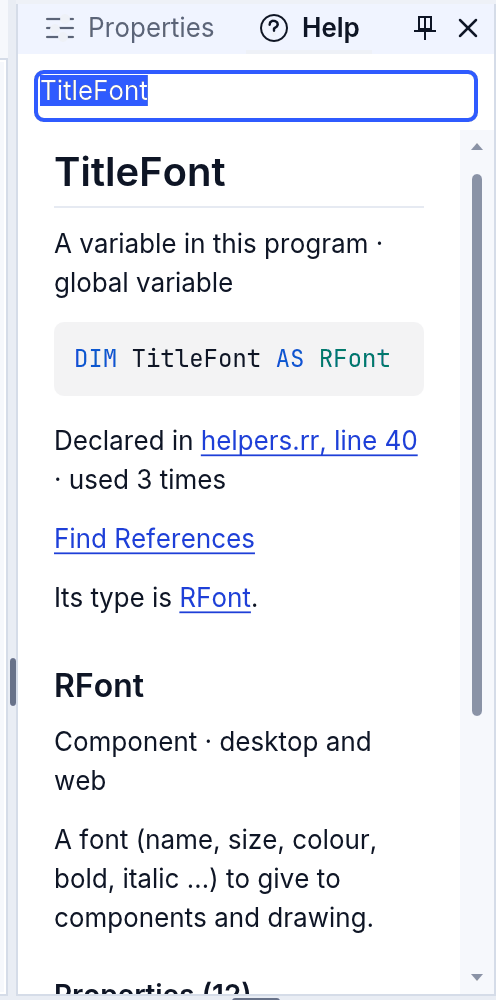
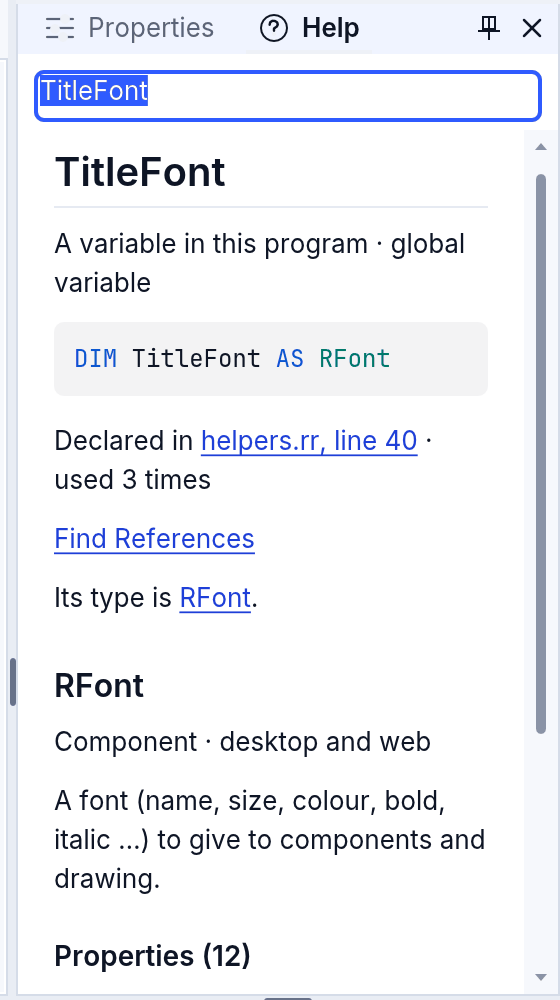
Manual: the inspector's headings and the classic-compatible mark, with pictures (INSPECTOR-CATEGORIES 5/6)
The Designing forms page (English and Spanish, the Spanish one stamped again)
says what each heading is for, where Accessibility fits, that a name the column
cuts short shows whole in a tooltip and the divider is remembered, and what the
small "new" means in a project kept classic-compatible. New pictures
(tools/manual/scenes/inspector.mjs): a form's Layout and Window; a button in a
classic-compatible project in light, dark and high contrast. The pictures that
show the Properties column (designer 01, 02, 04, data/studio-designer, the four
Help ones, whose crop follows the pane's new width) made again. The design guide
names the small note chip; the Spanish glossary the new words.

diff --git a/docs/manual/es/designing-forms.md b/docs/manual/es/designing-forms.md
@@ -1,4 +1,4 @@
-<!-- translated-from: designing-forms.md 787571a21d444a3a -->
+<!-- translated-from: designing-forms.md e7bce699475ac361 -->
 # Diseñar formularios en RapidR Studio
 
 El diseñador de formularios de RapidR Studio te permite construir las ventanas
@@ -241,6 +241,31 @@ seleccionado (o en el propio formulario cuando no hay nada seleccionado), por
 categoría o de la A a la Z, con un cuadro de búsqueda; el cuadro que está debajo
 dice qué hace la propiedad seleccionada. Los valores en gris son los
 predeterminados: no se escriben en el código.
+
+Cada propiedad está bajo el encabezado de **para qué sirve**, los mismos
+encabezados para todos los componentes: **Apariencia** (cómo se ve),
+**Comportamiento** (cómo actúa), **Disposición** (dónde está y de qué tamaño:
+Left, Top, Width, Anchors, los tamaños mínimo y máximo), **Fuente** (FontName,
+FontSize, FontColor), **Ayuda** (la sugerencia), **Dibujo**, **Datos**,
+**Ventana**, **Multimedia** y **Red**, y **Accesibilidad**, que reúne lo que se
+le dice a un lector de pantalla: AccessibleName, AccessibleDescription y
+AccessibleHidden. Busca una propiedad por lo que quieres cambiar, no por de
+dónde viene.
+
+![El panel Propiedades en un formulario: Disposición y Ventana, cada encabezado con las propiedades de su propósito](../images/inspector/categories-light.png)
+
+Un nombre que la columna deja cortado se muestra completo en una sugerencia. La
+línea entre los nombres y los valores se arrastra, y Studio recuerda dónde la
+dejas.
+
+Si tu proyecto debe seguir funcionando con programas clásicos (la sección
+`[compat]` del archivo del proyecto, como empieza una aplicación de formularios
+clásica), el panel marca con un pequeño **nuevo** las propiedades que un programa
+clásico no tiene; apunta a una y dice «No está en los programas clásicos», y un
+lector de pantalla dice lo mismo. No se oculta nada, y en cualquier otro proyecto
+no se marca nada. Mira las [Notas de compatibilidad](compatibility.md).
+
+![El mismo panel en un proyecto que se mantiene compatible con lo clásico: FontColor, FontSize, Anchors y los tamaños llevan un pequeño nuevo](../images/inspector/classic-marks-light.png)
 
 Cada tipo de propiedad tiene su propio editor, y cada uno escribe lo que el
 programa necesita:

diff --git a/docs/manual/designing-forms.md b/docs/manual/designing-forms.md
@@ -229,6 +229,29 @@ The **Properties** page lists what you can set on the selected component
 search box; the box under it says what the selected property does. Values
 in grey are defaults: not written in the code.
 
+Every property is under the heading of **what it is for**, the same headings
+for every component: **Appearance** (how it looks), **Behavior** (how it
+acts), **Layout** (where it is and how big: Left, Top, Width, Anchors, the
+smallest and largest sizes), **Font** (FontName, FontSize, FontColor),
+**Help** (the hint), **Drawing**, **Data**, **Window**, **Media** and
+**Network**, and **Accessibility**, which gathers what a screen reader is
+told: AccessibleName, AccessibleDescription and AccessibleHidden. Look for a
+property by what you want to change, not by where it came from.
+
+![The Properties pane on a form: Layout and Window, each heading with the properties of its purpose](images/inspector/categories-light.png)
+
+A name the column cuts short shows whole in a tooltip. The line between the
+names and the values drags, and Studio remembers where you leave it.
+
+If your project must keep working with classic programs (the project file's
+`[compat]` section, the way a classic form app starts), the pane marks the
+properties a classic program doesn't have with a small **new**; point at
+one and it says "Not in classic programs", and a screen reader says the same.
+Nothing is hidden, and in any other project nothing is marked. See the
+[Compatibility notes](compatibility.md).
+
+![The same pane in a project kept classic-compatible: FontColor, FontSize, Anchors and the sizes carry a small new](images/inspector/classic-marks-light.png)
+
 Each kind of property has its own editor, and each writes what the program
 needs:
 

diff --git a/docs/design-guidelines.md b/docs/design-guidelines.md
@@ -107,6 +107,7 @@ A chip says a state that lasts (a mode, a result), never an action.
 - **Never colour alone:** the words say it ("No questions asked"), the icon says it again.
 - **For screen readers:** the chip's container carries `AccessibleName` (the whole warning in a sentence); its parts are `AccessibleHidden`.
 - **How in Studio:** an `RCanvas` with `OnPaint = ChipPaint` (chrome.inc), `Tag` the status (0 info, 1 success, 2 warning, 3 danger), `Color` the ground; an `RImage` for the icon and a `Transparent` `RLabel` on top. The AI Apps pane's `McpBadge` is the reference; [status_colors.rr](../examples/gui/status_colors.rr) does the same in a program.
+- **A note after a name in a list** (the Properties pane in a project kept classic-compatible: "new" after a member classic programs lack): the same chip, small — a 16-px pill in `status.info`, `UIFont` one size down, 6 pixels on each side of the word; framed in the text colour in high contrast, on the window and framed in the classic look. It says a state, never an action; what it means goes in the row's tooltip and, for a screen reader, in its description ("Not in classic programs"). Nothing at all where it does not apply.
 - **In the status bar** (shorter than a header): the chip is as tall as the bar allows and its icon 12 px, in `StatusFont`; it is a child of the bar (never of the window, whose aligned parts it would push), at the right end of the project's panel. School Lock's chip is the reference (schoollock.inc).
 
 ## Pane anatomy

diff --git a/docs/i18n/glossary-es.md b/docs/i18n/glossary-es.md
@@ -337,6 +337,8 @@ The consent dialogs, the AI cost and privacy notes, the secret-check warnings an
 | Non-visual objects / Libraries | Objetos no visuales / Bibliotecas | |
 | Web only / AI / IDE | Solo para la web / IA / Studio | The "IDE" group is Studio's own components |
 | Property groups: Appearance / Behavior / Data / Network | Apariencia / Comportamiento / Datos / Red | "Layout" = *Disposición* |
+| Property groups, the rest: Accessibility / Drawing / Font / Help / Layout / Media / Window / Misc | Accesibilidad / Dibujo / Fuente / Ayuda / Disposición / Multimedia / Ventana / Varios | The Properties pane groups by what a property is for (there is no group named after where a member comes from) |
+| "new" (the note after a property classic programs lack) / Not in classic programs | nuevo / No está en los programas clásicos | Only in a project kept classic-compatible; *clásico* as in "Tema: Clásico" |
 
 The Toolbox lists components by their code names (`RButton`, `RLabel`…); those are never translated, only the group names above and each component's description.
 
